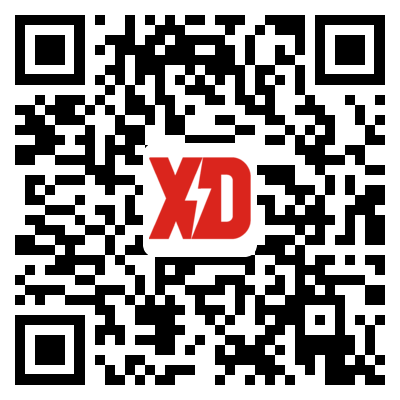
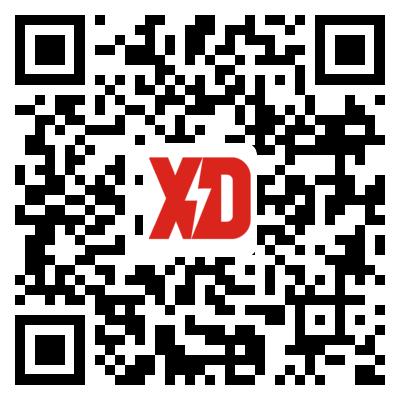
西开电气更换成内网ip

Changed region(s): [[0.03, 0.03, 0.96, 0.96], [0.9, 0.39, 0.96, 0.48]]

diff --git a/www/config/config.js b/www/config/config.js
@@ -1,7 +1,7 @@
 var gTheme = 'light'; // 主题色 light/dark
 
 var loginExpireCheckEnable = false;       // 是否检查鉴权过期
-var defaultPlatIpAddr = 'http://61.185.214.211'; // 平台默认ip，格式为：http://118.190.51.135
+var defaultPlatIpAddr = 'http://192.168.2.201'; // 平台默认ip，格式为：http://118.190.51.135
 var defaultImgThumbHost = "";     // 如果为空则与 host一样
 var defaultIpcHost = null; // 摄像头服务地址。为空则与host一样
 var gQrDownloadUrl = '/version/qr.png'; // 二维码下载链接
